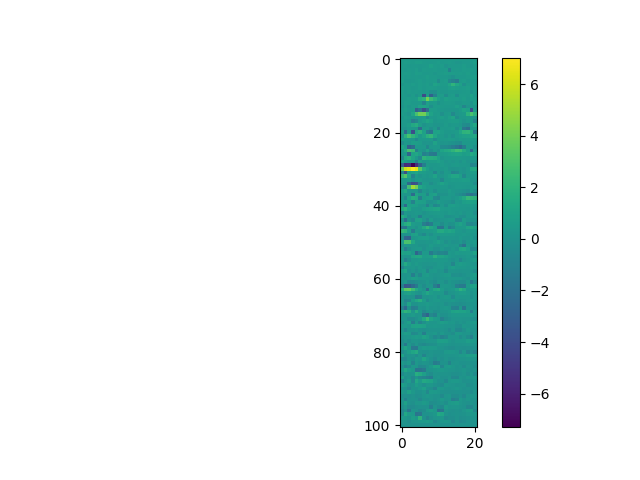
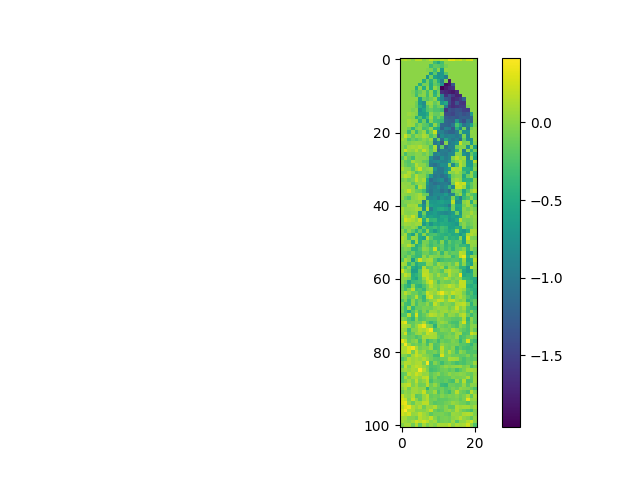
erosion working

diff --git a/src/CA.py b/src/CA.py
@@ -6,8 +6,10 @@ from dataclasses import dataclass
 
 ALL_NEIGHBORS = [(0, -1), (0, 1), (1, 0), (-1, 0), (-1, -1), (-1, 1), (1, -1), (1, 1)]
 BOTTOM_NEIGHBORS = [(1, 0), (1, -1), (1, 1)]
+BOTTOM_SIDE_NEIGHBORS = [(1, 0), (1, -1), (1, 1),(0, -1), (0, 1)]
 
-EROSION_CONSTANT = 0.01
+EROSION_K = 0.1
+EROSION_C = 0.3
 EROSION_EXPONENT = 2.5
 
 def visualise_height(grid):
@@ -36,7 +38,7 @@ class CA:
         
     def enforce_boundary(self):        
         # Set the center cell at the top row with some water
-        self.grid[0, self.width // 2, WATER_HEIGHT] += 50  # Arbitrary water height for the top-center cell
+        self.grid[0, self.width // 2, WATER_HEIGHT] = 50  # Arbitrary water height for the top-center cell
         self.grid[-1, :, WATER_HEIGHT] = 0  # Arbitrary water height for the top-center cell
         self.grid[0, :, GROUND_HEIGHT] = self.grid[0,-1, GROUND_HEIGHT]  # Arbitrary water height for the top-center cell
         self.grid[-1, :, GROUND_HEIGHT] = 0  # Arbitrary water height for the top-center cell
@@ -62,8 +64,8 @@ class CA:
                     ni, nj = indices[idx]
                     self.grid[ni][nj][WATER_HEIGHT] += discharge
                     current_cell[WATER_HEIGHT] -= discharge
-                    current_cell[GROUND_HEIGHT] -= self.erosion_rule(EROSION_CONSTANT, discharge, slope)
-                    self.grid[ni,nj,GROUND_HEIGHT] += self.erosion_rule(EROSION_CONSTANT, discharge, slope)
+                    current_cell[GROUND_HEIGHT] -= self.erosion_rule(EROSION_K, discharge, slope)
+                    self.grid[ni,nj,GROUND_HEIGHT] += self.erosion_rule(EROSION_K, discharge, slope)
                     
 
         # If no positive slopes, distribute water evenly to zero-slope neighbors
@@ -74,8 +76,8 @@ class CA:
                 for idx in zero_slope_indices:
                     ni, nj = indices[idx]
                     self.grid[ni][nj][WATER_HEIGHT] += discharge
-                    current_cell[GROUND_HEIGHT] -=  self.erosion_rule(EROSION_CONSTANT, discharge, slope)
-                    self.grid[ni,nj,GROUND_HEIGHT] += self.erosion_rule(EROSION_CONSTANT, discharge, slope)
+                    current_cell[GROUND_HEIGHT] -=  self.erosion_rule(EROSION_K, discharge, slope)
+                    self.grid[ni,nj,GROUND_HEIGHT] += self.erosion_rule(EROSION_K, discharge, slope)
                 current_cell[WATER_HEIGHT] -= discharge * len(zero_slope_indices)
 
         # If all slopes are negative, distribute water proportionally to their magnitudes
@@ -89,14 +91,14 @@ class CA:
                         ni, nj = indices[idx]
                         self.grid[ni][nj][WATER_HEIGHT] += discharge
                         current_cell[WATER_HEIGHT] -= discharge
-                        current_cell[GROUND_HEIGHT] -= self.erosion_rule(EROSION_CONSTANT, discharge, slope)
-                        self.grid[ni,nj,GROUND_HEIGHT] += self.erosion_rule(EROSION_CONSTANT, discharge, slope)
+                        current_cell[GROUND_HEIGHT] -= self.erosion_rule(EROSION_K, discharge, slope)
+                        self.grid[ni,nj,GROUND_HEIGHT] += self.erosion_rule(EROSION_K, discharge, slope)
                         
-        
-    def erosion_rule(self, K, Q, S=0, C=0):
+           
+    def erosion_rule(self, K, Q, S=0, C=EROSION_C):
         if Q <= 0:
             return 0
-        return K* np.sign(S) * np.minimum(0.1*S, np.power(Q*(np.abs(S) + C), EROSION_EXPONENT))
+        return K* np.sign(S) * np.minimum(C, np.power(Q*(np.abs(S) + C), EROSION_EXPONENT))
 
     def create_indices_slopes(self, i: int, j: int, previous_grid: NDArray, previous_cell: NDArray) -> tuple[list[tuple[int, int]], list[float]]:
         neighbors: list[NDArray] = []
@@ -128,7 +130,7 @@ class CA:
             for j in range(self.width):
                 self.apply_rules(i, j, previous_grid)
                 
-        diff = self.grid[:,:,GROUND_HEIGHT] - previous_grid[:,:,GROUND_HEIGHT]
+        # diff = self.grid[:,:,GROUND_HEIGHT] - previous_grid[:,:,GROUND_HEIGHT]
         # print( np.max(diff), np.min(diff), np.mean(diff))
     
 
@@ -148,38 +150,41 @@ class CA:
         for _ in range(num_epochs):
             self.update_grid()
 
-            # Create a frame for the video showing water presence and height
-            frame = np.zeros((self.height, 2*self.width, 3), dtype=np.uint8)
+            if(output_file or show_live):
+                # Create a frame for the video showing water presence and height
+                frame = np.zeros((self.height, 2*self.width, 3), dtype=np.uint8)
 
-            h_range = np.max(self.grid[:,:,GROUND_HEIGHT]) - np.min(self.grid[:,:,GROUND_HEIGHT])
-            frame[:, self.width:, 2] = np.floor(255/h_range*(self.grid[:,:,GROUND_HEIGHT] - np.min(self.grid[:,:,GROUND_HEIGHT])))
-            
-            
-            h_range = np.max(self.grid[:,:,WATER_HEIGHT]) - np.min(self.grid[:,:,WATER_HEIGHT])
-            frame[:, :self.width, 0] = np.floor(155/h_range*(self.grid[:,:,WATER_HEIGHT] - np.min(self.grid[:,:,WATER_HEIGHT])))
-            
-            
-            frame[:, :self.width, 0] += (100*(self.grid[:,:,WATER_HEIGHT] > 0)).astype(np.uint8)
+                h_range = np.max(self.grid[:,:,GROUND_HEIGHT]) - np.min(self.grid[:,:,GROUND_HEIGHT])
+                frame[:, self.width:, 2] = np.floor(255/h_range*(self.grid[:,:,GROUND_HEIGHT] - np.min(self.grid[:,:,GROUND_HEIGHT])))
+                
+                # log_height = np.log10(np.maximum(1e-6, self.grid[:,:,WATER_HEIGHT]))
+                log_height = np.sqrt(np.maximum(1e-6, self.grid[:,:,WATER_HEIGHT]))
+                h_range = np.max(log_height) - np.min(log_height)
+                frame[:, :self.width, 0] = np.floor(155/h_range*(log_height - np.min(log_height)))
+                
+                
+                frame[:, :self.width, 0] += (50*(self.grid[:,:,WATER_HEIGHT] > 0)).astype(np.uint8)
+                frame[:, :self.width, 0] += (50*(self.grid[:,:,WATER_HEIGHT] > 1e-3)).astype(np.uint8)
 
 
-            # Optionally resize the frame for a larger display window
-            if show_live and window_scale != 1:
-                scaled_size = (int(frame.shape[1] * window_scale), int(frame.shape[0] * window_scale))
-                display_frame = cv2.resize(frame, scaled_size, interpolation=cv2.INTER_LINEAR)
-            else:
-                display_frame = frame
+                # Optionally resize the frame for a larger display window
+                if show_live and window_scale != 1:
+                    scaled_size = (int(frame.shape[1] * window_scale), int(frame.shape[0] * window_scale))
+                    display_frame = cv2.resize(frame, scaled_size, interpolation=cv2.INTER_LINEAR)
+                else:
+                    display_frame = frame
 
-            # Optionally show the simulation live
-            if show_live:
-                cv2.imshow("Simulation", display_frame)
-                # Wait for a short period to control the frame rate
-                # and allow the user to exit the simulation by pressing 'q'
-                if cv2.waitKey(100) & 0xFF == ord('q'):
-                    print("Simulation interrupted by user.")
-                    break
+                # Optionally show the simulation live
+                if show_live:
+                    cv2.imshow("Simulation", display_frame)
+                    # Wait for a short period to control the frame rate
+                    # and allow the user to exit the simulation by pressing 'q'
+                    if cv2.waitKey(100) & 0xFF == ord('q'):
+                        print("Simulation interrupted by user.")
+                        break
 
-            # Append the original frame for the video
-            frames.append(frame)
+                # Append the original frame for the video
+                frames.append(frame)
 
         # Close the display window
         if show_live:

diff --git a/src/main.py b/src/main.py
@@ -4,17 +4,18 @@ import matplotlib.pyplot as plt
 
 if __name__ == "__main__":
     # Example usage
-    width, height, ground_height = 21, 101, 0.5
+    np.random.seed(42)
+    width, height, ground_height = 21, 101, 101*.1
     
     initial_state = generate_initial_slope(height, width, ground_height, noise_amplitude = 0.1, noise_type = 'white')
     
     output_file = 'videos/water_simulation.mp4'
     ca = CA(width, height, initial_state, neighbor_list=BOTTOM_NEIGHBORS)
-    ca.run_simulation(1000)
-    plt.imshow(ca.grid[:,:, 0])
+    ca.run_simulation(1000, show_live=True)
+    
+    plt.imshow(ca.grid[:,:,GROUND_HEIGHT] - initial_state[:,:,GROUND_HEIGHT])
     plt.colorbar()
+    
     plt.savefig('data/test.png')
-
-
-
-
+    
+    
